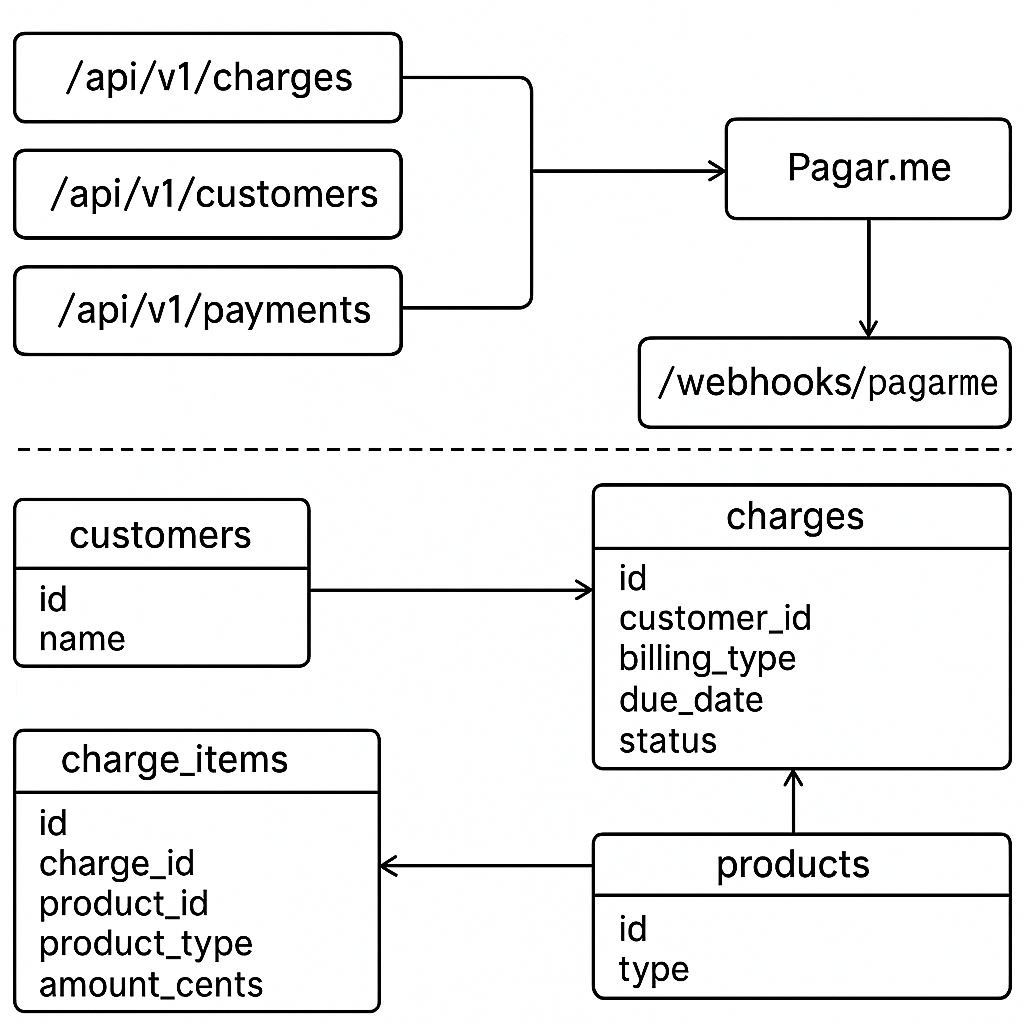
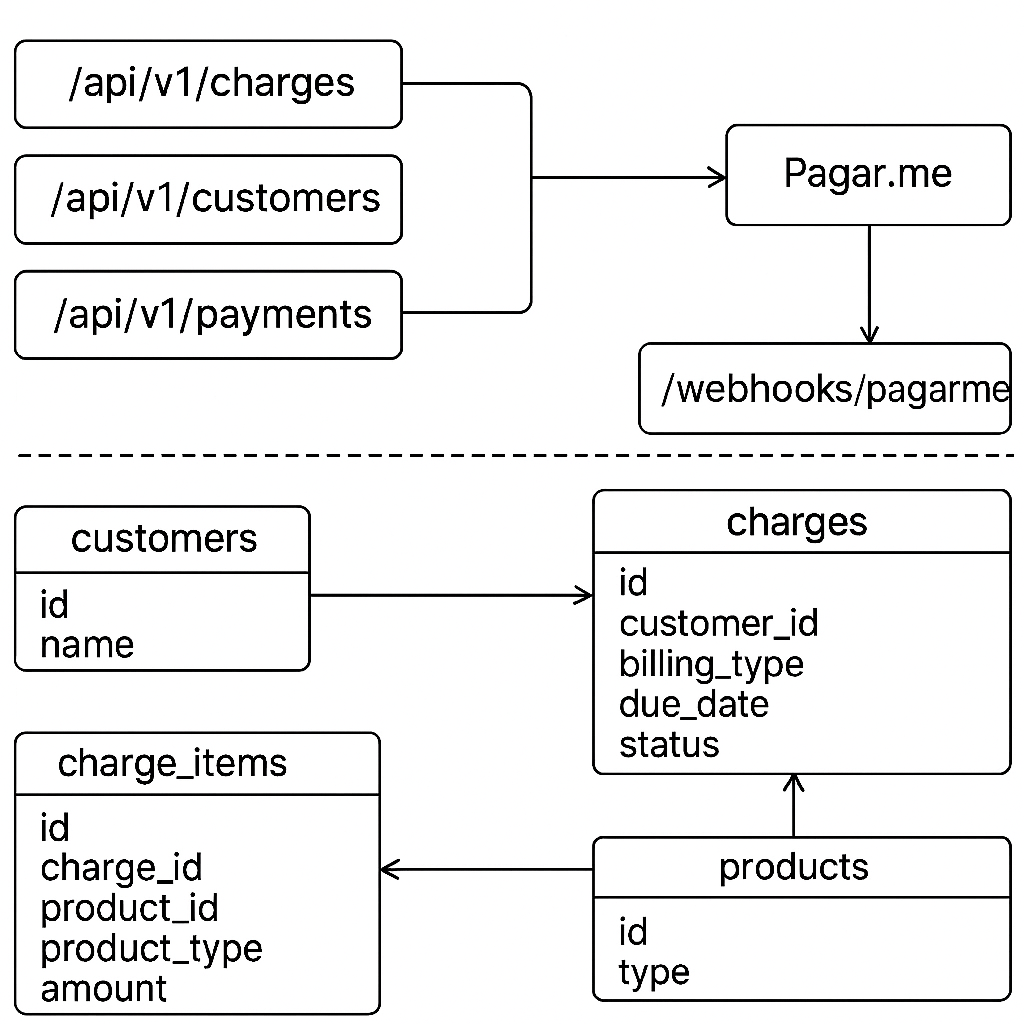
fix: rename field

diff --git a/README.md b/README.md
@@ -55,12 +55,12 @@ POST /api/v1/webhooks/pagarme
     {
       "product_type": "PMS",
       "product_id": 1,
-      "amount_cents": 20000
+      "amount": 20000
     },
     {
       "product_type": "Motor",
       "product_id": 2,
-      "amount_cents": 5000
+      "amount": 5000
     }
   ],
   "billing_type": "recurring",
@@ -90,8 +90,8 @@ class Charge < ApplicationRecord
   enum billing_type: { one_time: 0, recurring: 1 }
   enum status: { pending: 0, paid: 1, failed: 2 }
 
-  def total_amount_cents
-    charge_items.sum(:amount_cents)
+  def total_amount
+    charge_items.sum(:amount)
   end
 end
 ```
@@ -164,8 +164,8 @@ Customer.create(name: "Hotel Bela Vista", legacy_provider: :asaas)
 Permitido via `ChargeItem`, que aceita múltiplos produtos polimórficos:
 
 ```ruby
-charge.charge_items << ChargeItem.new(product: pms, amount_cents: 10000)
-charge.charge_items << ChargeItem.new(product: channel, amount_cents: 5000)
+charge.charge_items << ChargeItem.new(product: pms, amount: 10000)
+charge.charge_items << ChargeItem.new(product: channel, amount: 5000)
 ```
 
 ### Versionamento de API
